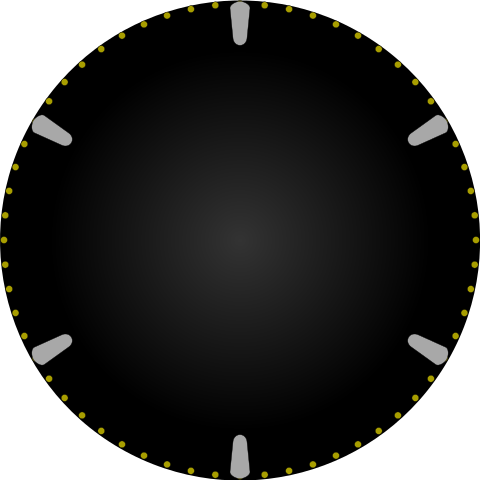
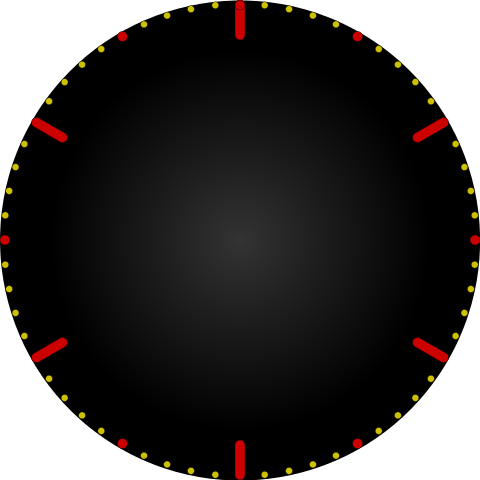
red hours, yellow minutes and text, text brighter

diff --git a/watchface/index.r.layout.js b/watchface/index.r.layout.js
@@ -79,7 +79,7 @@ export const OUTER_TEXT_PROPS = {
   w: SCREEN.width - px(30),
   h: SCREEN.height - px(30),
   text_size: px(32),
-  color: 0xa89e00,
+  color: 0xccc000,
   text: '',
   align_h: hmUI.align.CENTER_H,
   align_v: hmUI.align.TOP,
